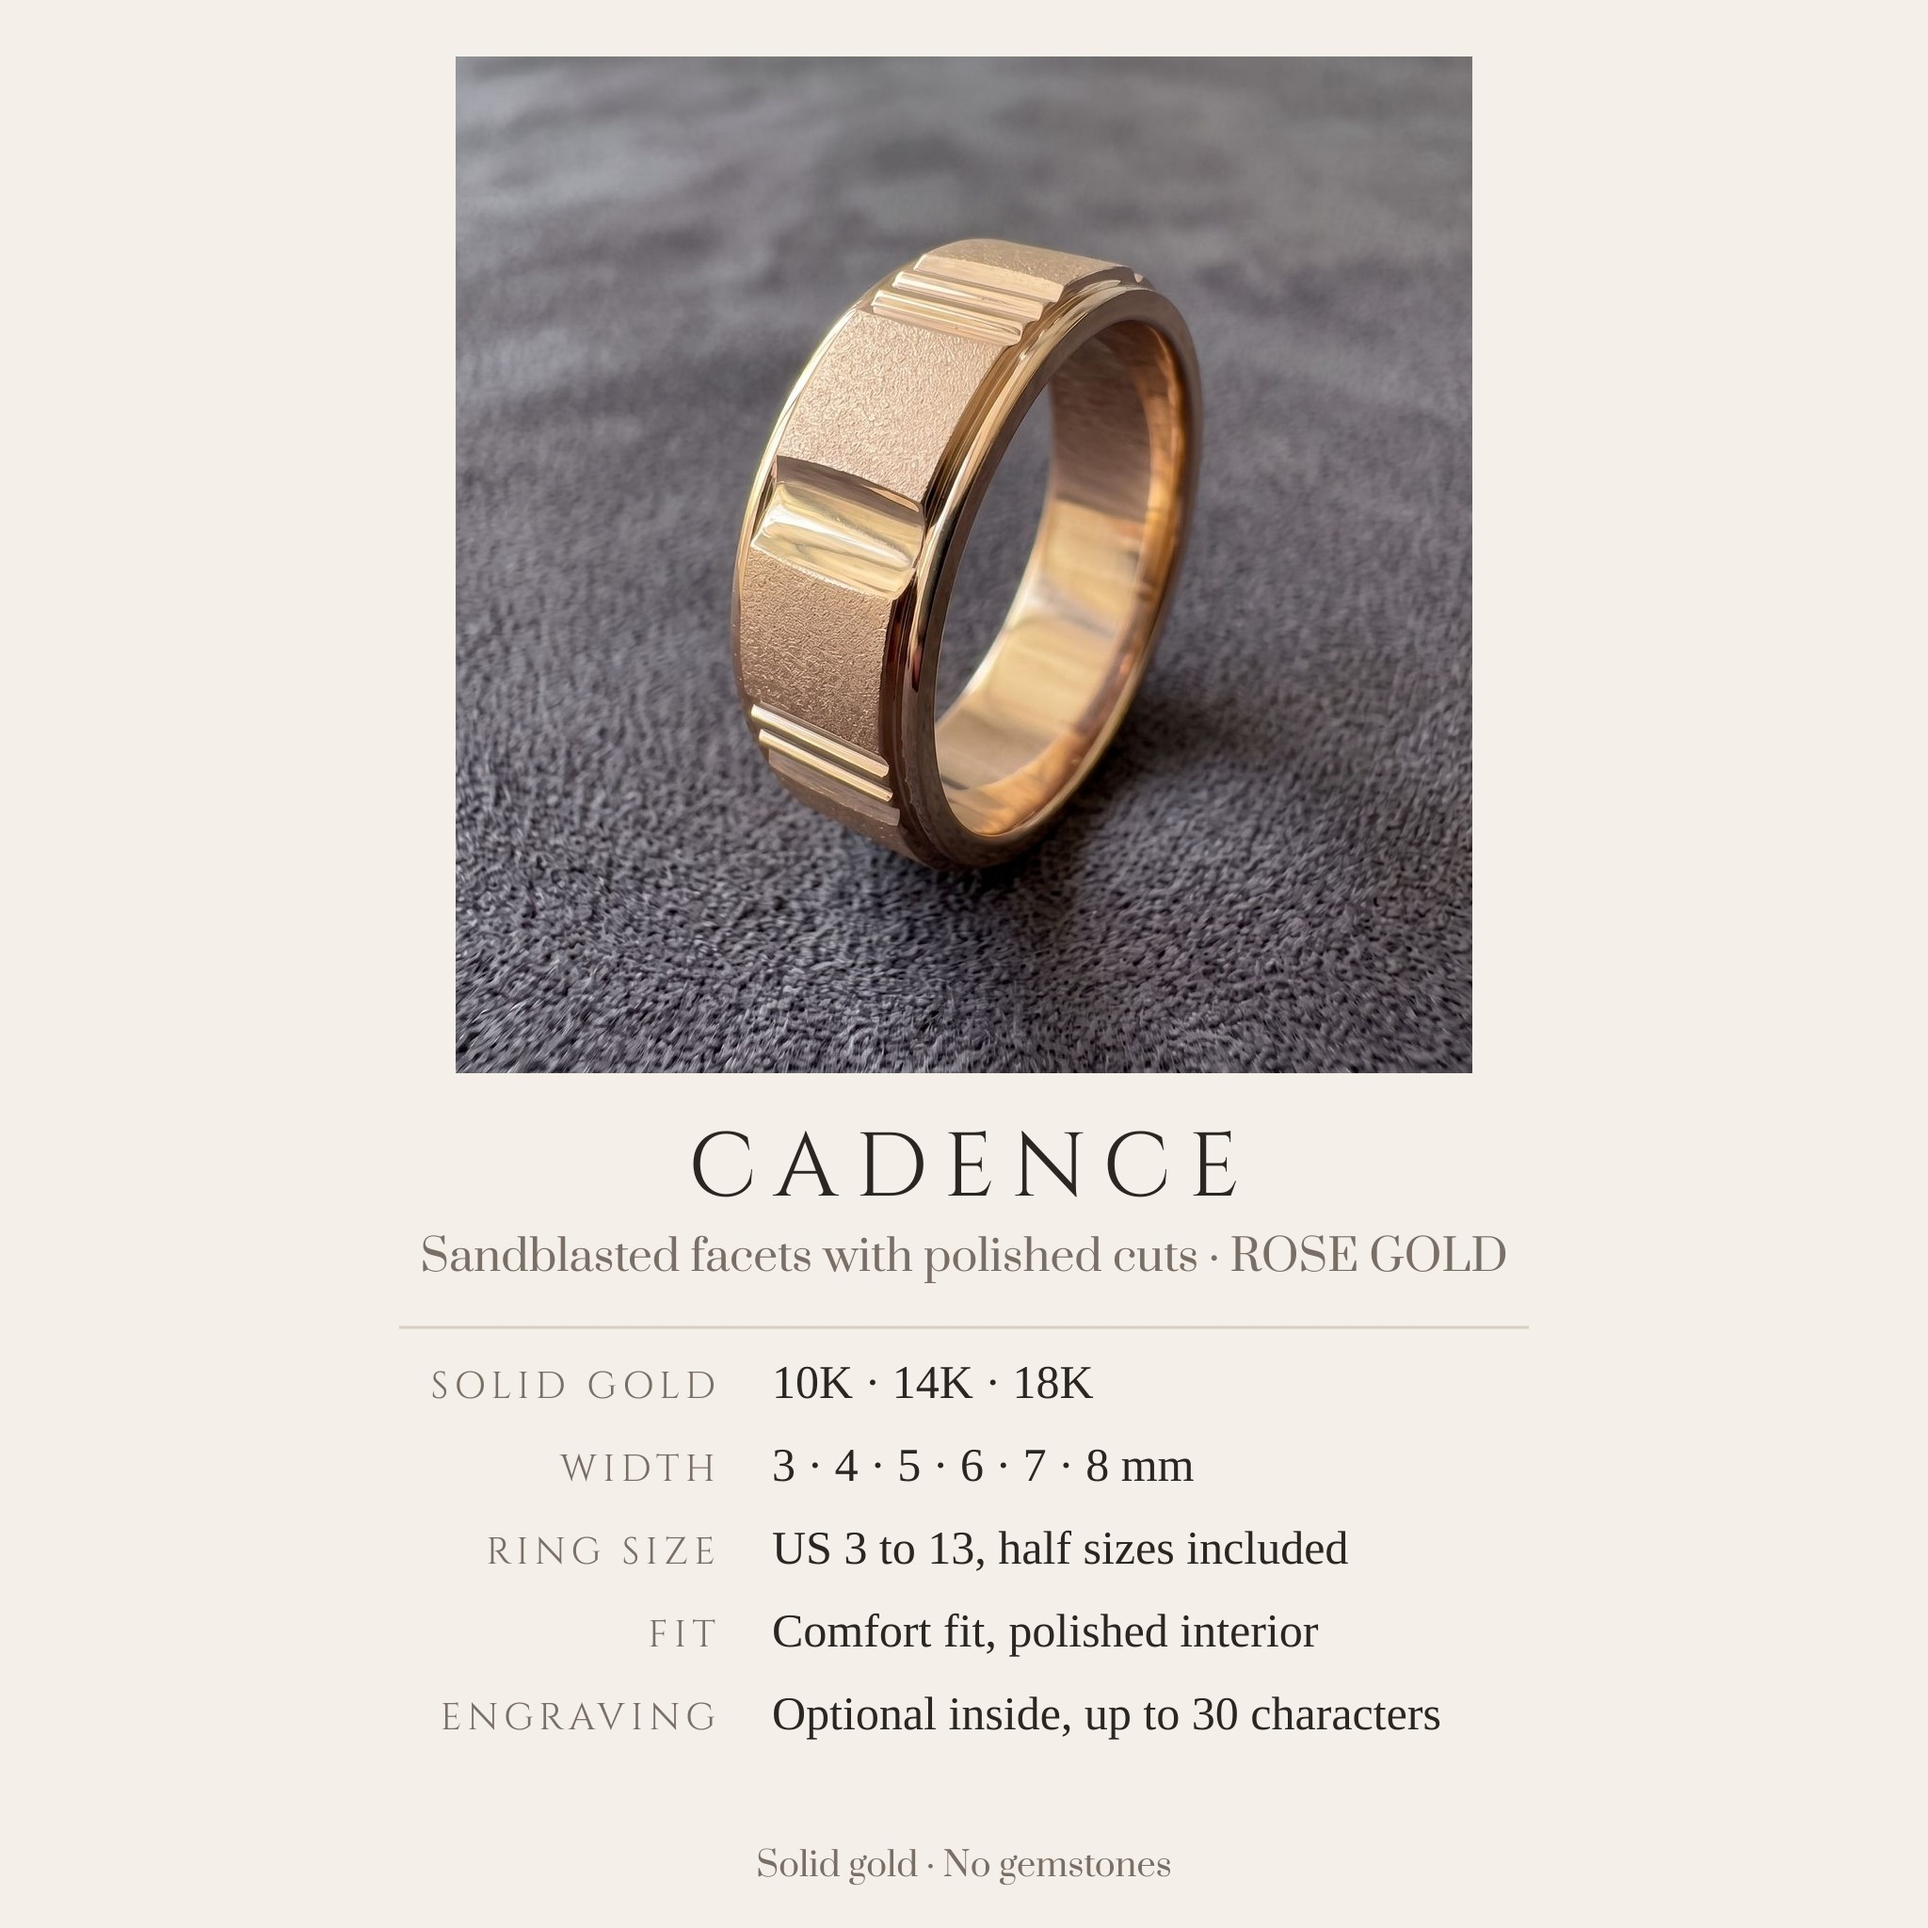
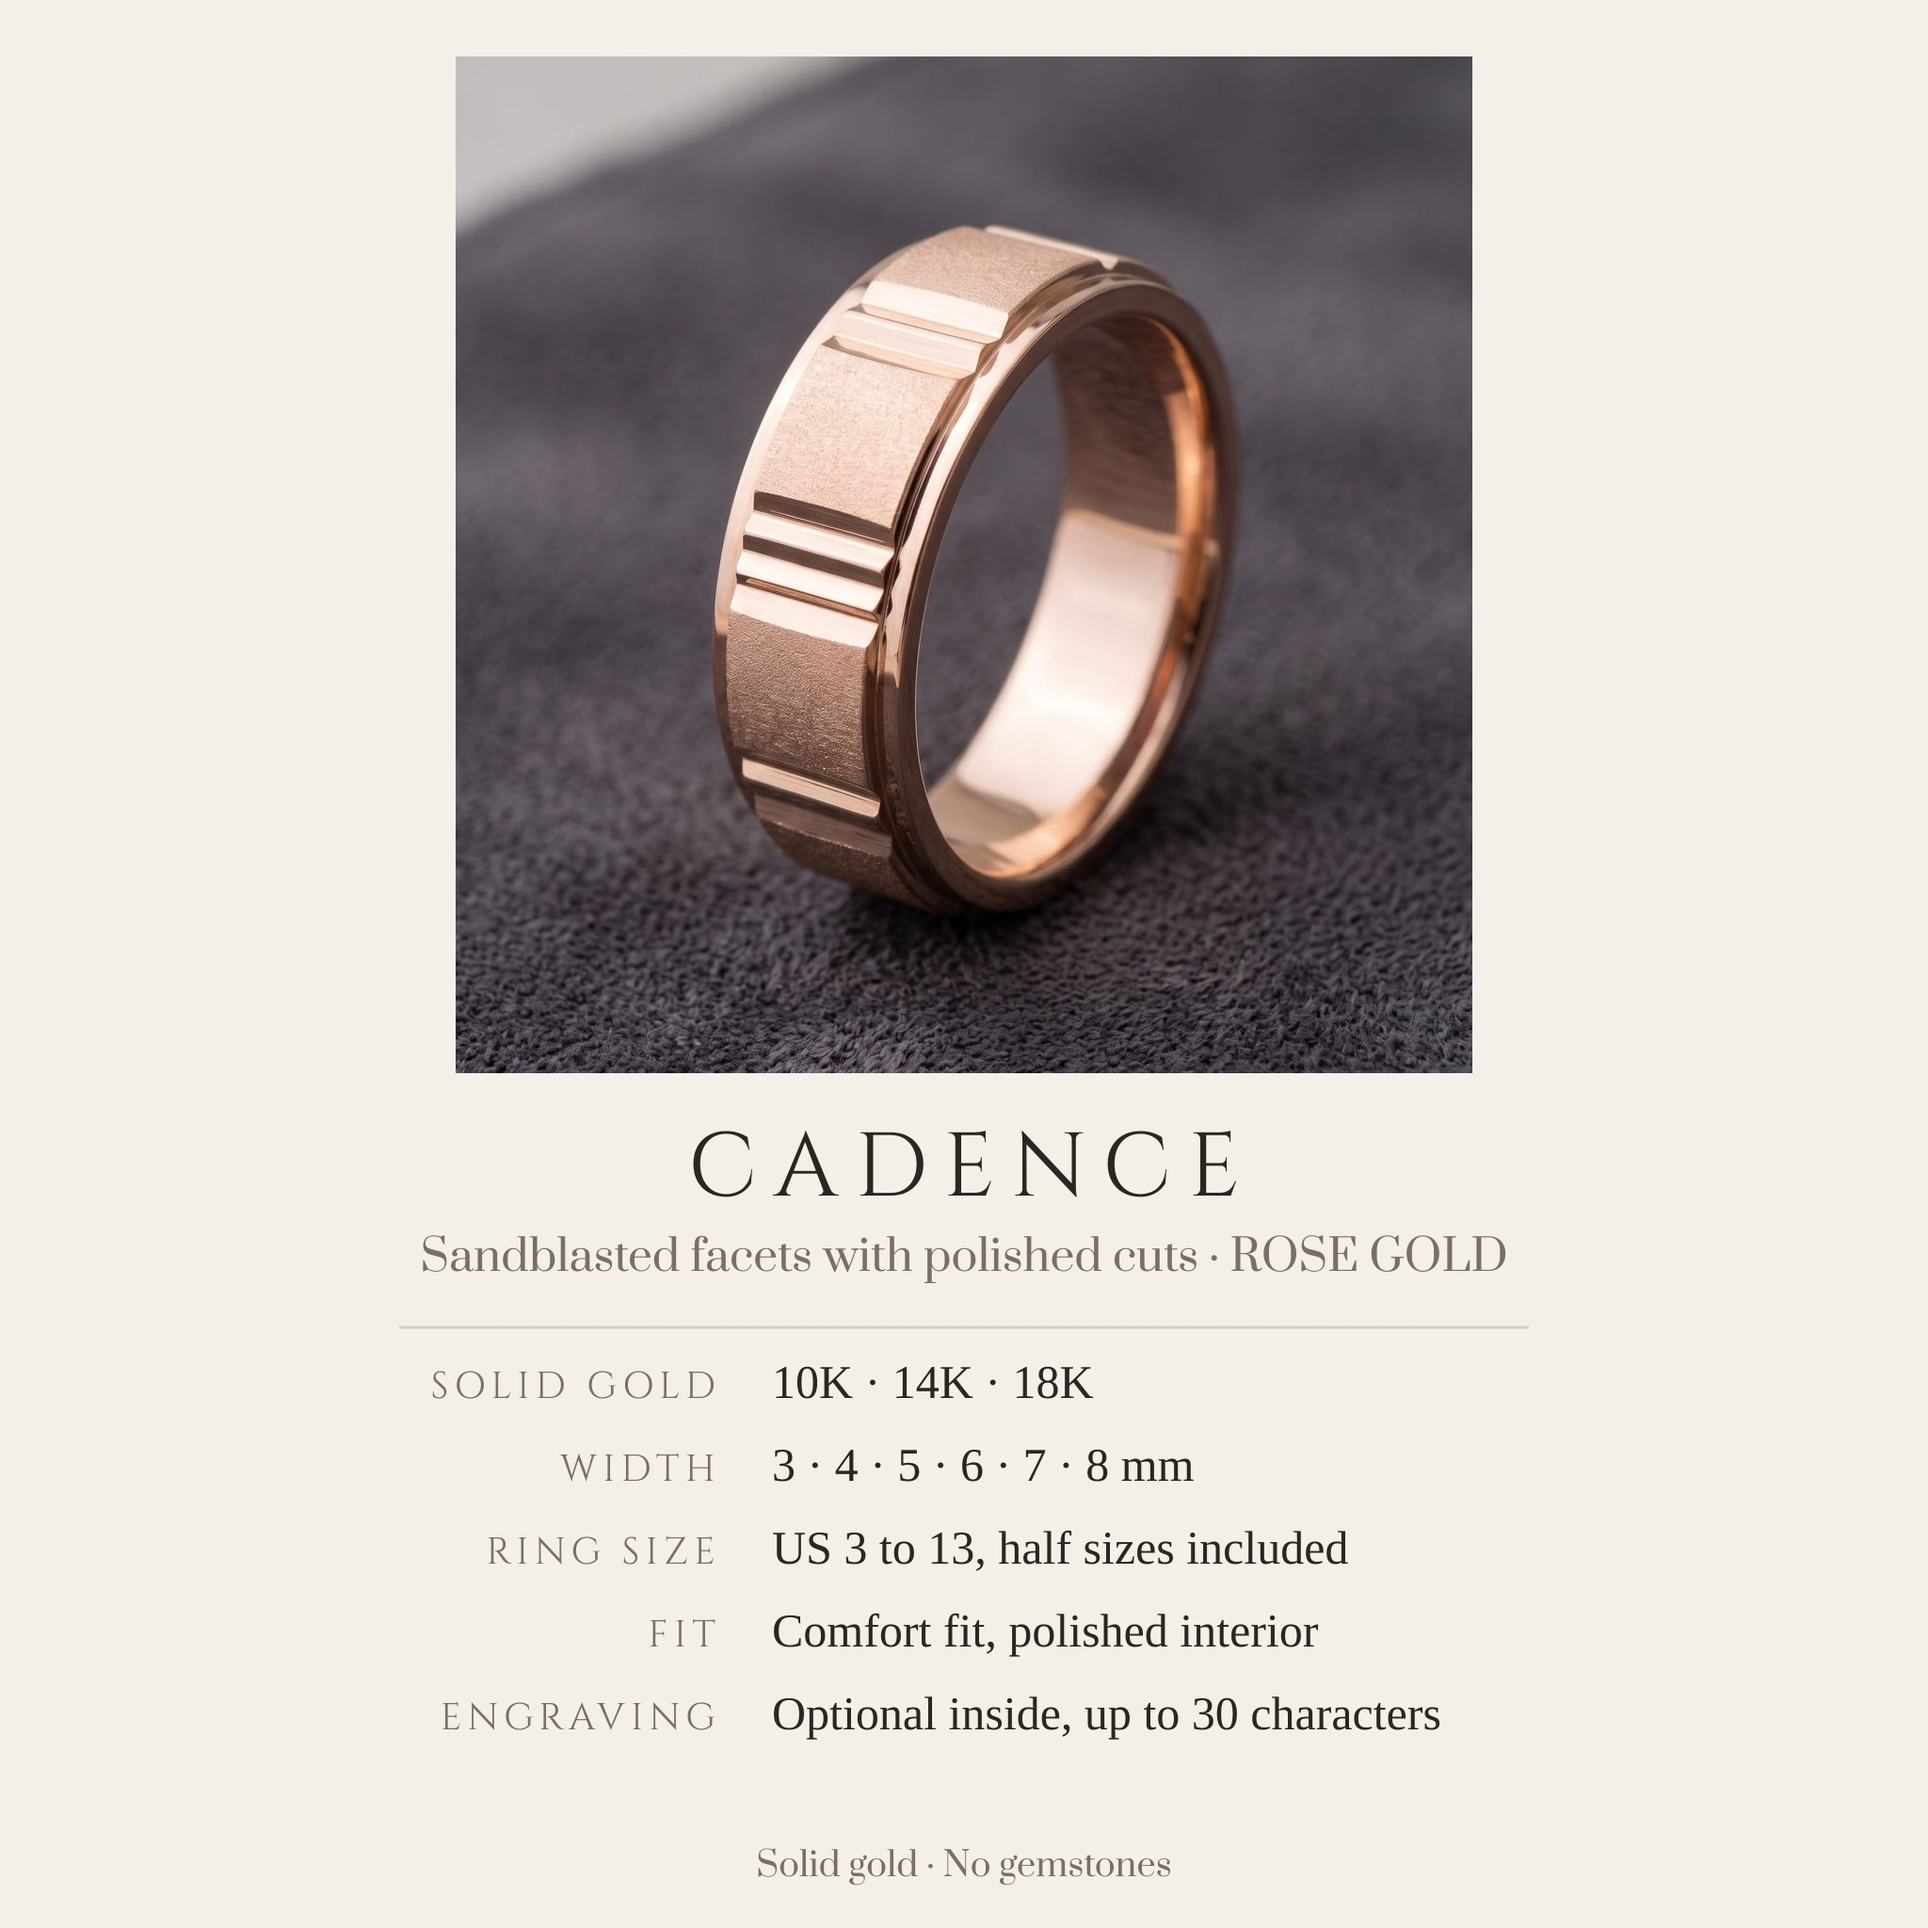
fix(eon): Cadence rose galerisi yeniden — gerçek rose tonu, iki bar + kanal eklemi
Sahip: "rose gold hatalı". Eski rose seti şeftali/şampanya tonundaydı ve
eklemler yuvarlak 3'lü nervürdü. Referans yakın kırpımlardan okundu ve
kırpımlar modele referans olarak verildi: her eklem iki düz parlak bar,
aralarında dar gölgeli metal kanal.

- R01 hero sahip onaylı (prompt v4); 02–10 bu hero'yu referans alıyor.
- 03 ve 05 yatık yan açıda hâlâ 3 bar çiziyor; sahip olduğu gibi kabul etti.
- 07 spec kartı yeni hero'dan yeniden dizildi; sarı/beyaz kartlar bayt bayt aynı.
- Sarı ve beyaz v2 olarak kaldı (sahibin kapsam kararı).
- QA: 10/10 2048² sRGB, makroblok 0, 30/30 tekil md5, meta veri yok.
- Dosya adları aynı: panel listing_images URL'leri değişmiyor, DB yazımı yok.

Claude-Session: https://claude.ai/code/session_011guEJrYqbZp4kPFcip9XNk

Changed region(s): [[0.2188, 0.0312, 0.7812, 0.5625]]

diff --git a/docs/second-brain.md b/docs/second-brain.md
@@ -1516,6 +1516,18 @@ repodaki hedefidir.
   YANA koyup "şekil aynı mı?" sorusunu ayrıca sor. Kullanıcı hangi soruyu
   cevapladıysa onay o kadardır; (3) seri batch'i yalnız hero'nun ŞEKLİ
   referansla eşleştikten sonra gönder. Gönderilen batch geri alınamaz.
+  **Güçlendirme (2026-09-27, ertesi gün):** set merge edilip panele
+  girdikten sonra sahip "rose gold hatalı" dedi. Bu sefer kırpımlar gerçekten
+  okundu ve iki şey çıktı: renk şeftali/şampanyaydı, eklem ise "iki düz bar +
+  aralarında gölgeli kanal" değil yuvarlak 3'lü nervürdü. Kırpımlar da ilk
+  okumada yetmedi: v3 hero'da barlar bitişikti, "ortada boşluk"u yine sahip
+  gördü. İşe yarayan iki şey oldu. (1) Kırpımları modele REFERANS olarak
+  yüklemek: tam kare yerine eklemin yakın çekimi verilince 2 bar tuttu.
+  (2) Rengi ayrı bir referansla sabitlemek: Willow rose hero'su yalnız renk
+  için verildi, şekli yok sayıldı. Kalan kör nokta açı: yüzük yatık ve yandan
+  çekilince (03, 05) model iki denemede de 3 bara döndü; ayakta 3/4 açıda
+  hiç dönmedi. Kural: bir detay belirli açıda tutmuyorsa o açıyı zorlama,
+  detayın tuttuğu açıyı kullan ya da kusuru sahibe sayıyla göster.
 
 - **Dış aracın şablonunu doldururken şablonun KENDİ yönlendirme satırı da
   veridir; ve "boşalttım" demeden önce dosyayı GERİ OKU (2026-09-26):**

diff --git a/docs/eon/listings/2026-09-26-eon-cadence-groove-band/README.md b/docs/eon/listings/2026-09-26-eon-cadence-groove-band/README.md
@@ -46,6 +46,13 @@ Her renk: `01-hero` · `02-worn-linen` · `03-macro` · `04-width-ladder` ·
 - `07-spec-card` dizildi: `node scripts/eon/typeset_spec_card.mjs cadence`.
 - QA: 2048² sRGB, 30/30 tekil md5, makroblok 0, damga/taş için iç yüzey
   zoom'u, renk başına kontak baskısı. Retler ve gerekçeleri `visual-plan.json`.
+- **Rose yeniden (2026-09-27, sahip: "rose gold hatalı"):** eski rose seti
+  şeftali/şampanya tonundaydı ve eklemler yuvarlak 3'lü nervürdü. Referans
+  yakın kırpımlardan okundu: her eklem iki düz parlak bar ve aralarında dar,
+  gölgeli bir metal kanal. Rose 9 kare bu tarifle (prompt v4) yeniden üretildi;
+  hero sahip onaylı. 03 ve 05 yatık yan açıda hâlâ 3 bar çiziyor, sahip olduğu
+  gibi kabul etti. Sarı ve beyaz v2 olarak kaldı (sahibin kapsam kararı).
+  Ayrıntı: `visual-plan.json` → `geometryNoteV4`.
 
 ## Panel + Etsy (Willow akışı)
 
